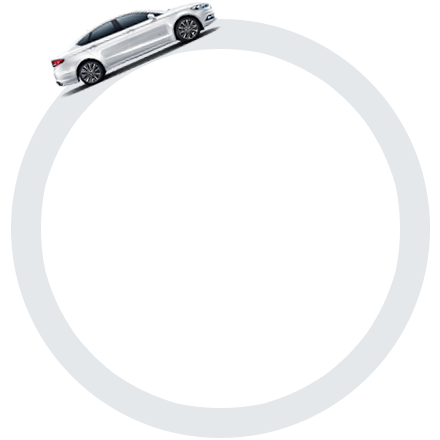
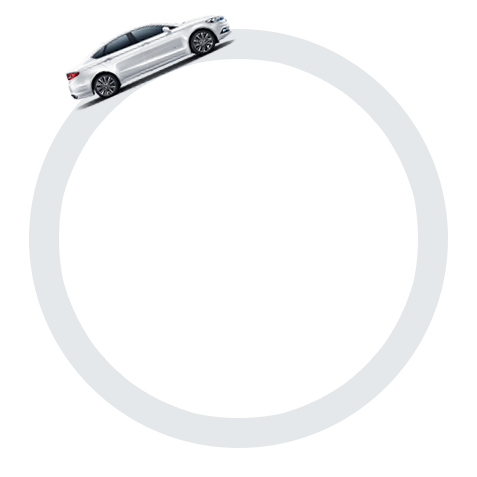
mondeo

Changed region(s): [[0.0, 0.0, 0.975, 1.0], [0.65, 0.1477, 0.7091, 0.1773]]

diff --git a/mondeo/css/main.css b/mondeo/css/main.css
@@ -40,6 +40,6 @@
 }
 
 @keyframes rotateCar {
-    0%{ transform:rotateZ(0deg);transform-origin:50% 50%;}
-    100%{ transform:rotateZ(360deg);transform-origin:50% 50%;}
+    0%{ transform:rotateZ(0deg);transform-origin:center center;}
+    100%{ transform:rotateZ(360deg);transform-origin:center center;}
 }

diff --git a/mondeo/index.html b/mondeo/index.html
@@ -42,7 +42,7 @@
     <div class="circular">
         <div class="dotA"></div>
         <div class="dotB"></div>
-        <img src="images/img-circular.png">
+        <img src="images/img-car-1.png">
     </div>
 </div>
 </body>
